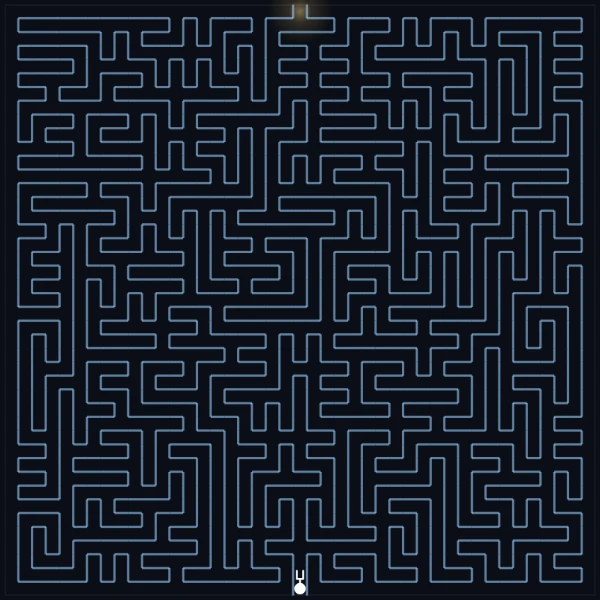
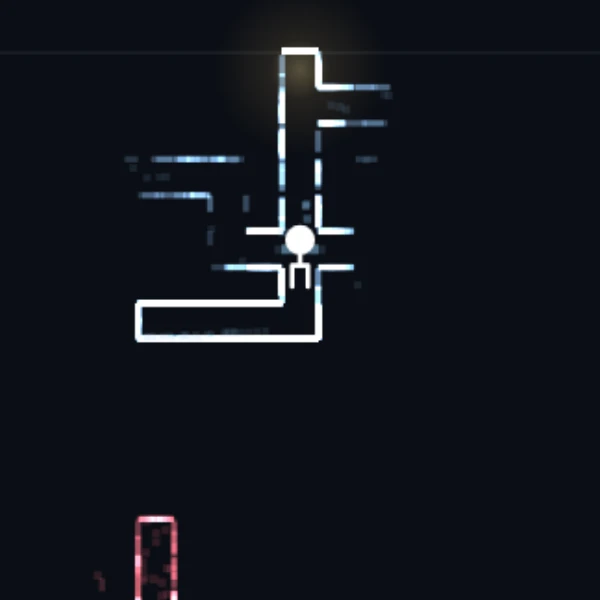
エコーメイズ：敵を明るい赤にし、サムネを音叉を鳴らした直後の玉に寄った画に撮り直す
Claude-Session: https://claude.ai/code/session_014cJZYtTc71YoM2s1FMdpJp

Changed region(s): [[0.03, 0.0, 0.99, 1.0]]

diff --git a/shisaku-i87mixcr/index.html b/shisaku-i87mixcr/index.html
@@ -2,7 +2,7 @@
 <html lang="ja">
 <head>
 <meta name="robots" content="noindex,nofollow">
-<meta name="preview-version" content="echo-maze-1791108928202">
+<meta name="preview-version" content="echo-maze-1791109219869">
 <meta charset="UTF-8">
 <meta name="viewport" content="width=device-width, initial-scale=1, maximum-scale=1, user-scalable=no">
 <title>【プレビュー】エコーメイズ</title>
@@ -32,14 +32,14 @@
   <button id="start" type="button">START</button>
   <button id="share-button" type="button" aria-label="Xでシェア" hidden></button>
 </div></div>
-<script src="../games/start.js?v=echo-maze-1791108928202"></script>
-<script src="../games/view.js?v=echo-maze-1791108928202"></script>
-<script src="../games/audio.js?v=echo-maze-1791108928202"></script>
-<script src="../games/lang.js?v=echo-maze-1791108928202"></script>   <!-- 日本語以外のブラウザでは英語 -->
-<script src="../games/share.js?v=echo-maze-1791108928202"></script>
-<script src="../games/result-actions.js?v=echo-maze-1791108928202"></script>
-<script src="../games/action-icons.js?v=echo-maze-1791108928202"></script>
-<script src="../games/pad.js?v=echo-maze-1791108928202"></script>   <!-- ジョイパッドと、絵の外のタップ -->
+<script src="../games/start.js?v=echo-maze-1791109219869"></script>
+<script src="../games/view.js?v=echo-maze-1791109219869"></script>
+<script src="../games/audio.js?v=echo-maze-1791109219869"></script>
+<script src="../games/lang.js?v=echo-maze-1791109219869"></script>   <!-- 日本語以外のブラウザでは英語 -->
+<script src="../games/share.js?v=echo-maze-1791109219869"></script>
+<script src="../games/result-actions.js?v=echo-maze-1791109219869"></script>
+<script src="../games/action-icons.js?v=echo-maze-1791109219869"></script>
+<script src="../games/pad.js?v=echo-maze-1791109219869"></script>   <!-- ジョイパッドと、絵の外のタップ -->
 <script>
 /* エコーメイズ
 
@@ -233,7 +233,7 @@
      こちらの声が届く（通路づたいの距離が声の大きさで決まる）と、声のした場所へ急いで向かい、着いたらまたうろつく。
      向かっている間はうなり続け、音の粒も出し続ける */
   var FOES = 3, FOE_WALK = 2 * B, FOE_RUN = 5 * B, HEAR_MIN = 8, HEAR_MAX = 36, FOE_FAR = 24;
-  var GROWL_EVERY = 0.8, GROWL_RAYS = 36, GROWL_REACH = 7, FOE_COLOR = "#ff4d5e";
+  var GROWL_EVERY = 0.8, GROWL_RAYS = 36, GROWL_REACH = 7, FOE_COLOR = "#ff6f7d";
   var CHASE_PULSE = 0.35, CHASE_RAYS = 48, CHASE_REACH = 20;   /* 追ってくる間は大きな声で、遠くまで見える（危ないけれど道が分かる） */
   var foes = [], catches = 0, caughtFlash = 0, growlClock = 0, growlTurn = 0;
   function nbrs(c) {
@@ -739,7 +739,7 @@
         var spin = clock * (f.map ? 6 : 2);
         ctx.fillStyle = FOE_COLOR;
         [spin, -spin + Math.PI].forEach(function (r, j) {
-          ctx.globalAlpha = Math.min(1, f.lit) * (j ? 0.6 : 0.85);
+          ctx.globalAlpha = Math.min(1, f.lit) * (j ? 0.75 : 1);
           ctx.beginPath();
           for (var q = 0; q < 3; q++) {
             var a = r + q * Math.PI * 2 / 3;
@@ -919,11 +919,11 @@
 /* 制作中の固定リンクでは、F9の録画パネルを使えるようにする */
 if (document.head && !/[?&]recorder-cli=1(?:&|$)/.test(location.search)) {
   var recorderScript = document.createElement("script");
-  recorderScript.src = /^(localhost|127\.0\.0\.1)$/.test(location.hostname) ? "../games/_tools/recorder-ui.js?v=echo-maze-1791108928202" : "./recorder-ui.js?v=echo-maze-1791108928202";
+  recorderScript.src = /^(localhost|127\.0\.0\.1)$/.test(location.hostname) ? "../games/_tools/recorder-ui.js?v=echo-maze-1791109219869" : "./recorder-ui.js?v=echo-maze-1791109219869";
   document.head.appendChild(recorderScript);
 }
 </script>
-<script src="./auto-reload.js?v=echo-maze-1791108928202"></script>
-<script src="./preview-header.js?v=echo-maze-1791108928202"></script>
+<script src="./auto-reload.js?v=echo-maze-1791109219869"></script>
+<script src="./preview-header.js?v=echo-maze-1791109219869"></script>
 </body>
 </html>

diff --git a/games/echo-maze/index.html b/games/echo-maze/index.html
@@ -237,7 +237,7 @@
      こちらの声が届く（通路づたいの距離が声の大きさで決まる）と、声のした場所へ急いで向かい、着いたらまたうろつく。
      向かっている間はうなり続け、音の粒も出し続ける */
   var FOES = 3, FOE_WALK = 2 * B, FOE_RUN = 5 * B, HEAR_MIN = 8, HEAR_MAX = 36, FOE_FAR = 24;
-  var GROWL_EVERY = 0.8, GROWL_RAYS = 36, GROWL_REACH = 7, FOE_COLOR = "#ff4d5e";
+  var GROWL_EVERY = 0.8, GROWL_RAYS = 36, GROWL_REACH = 7, FOE_COLOR = "#ff6f7d";
   var CHASE_PULSE = 0.35, CHASE_RAYS = 48, CHASE_REACH = 20;   /* 追ってくる間は大きな声で、遠くまで見える（危ないけれど道が分かる） */
   var foes = [], catches = 0, caughtFlash = 0, growlClock = 0, growlTurn = 0;
   function nbrs(c) {
@@ -743,7 +743,7 @@
         var spin = clock * (f.map ? 6 : 2);
         ctx.fillStyle = FOE_COLOR;
         [spin, -spin + Math.PI].forEach(function (r, j) {
-          ctx.globalAlpha = Math.min(1, f.lit) * (j ? 0.6 : 0.85);
+          ctx.globalAlpha = Math.min(1, f.lit) * (j ? 0.75 : 1);
           ctx.beginPath();
           for (var q = 0; q < 3; q++) {
             var a = r + q * Math.PI * 2 / 3;
